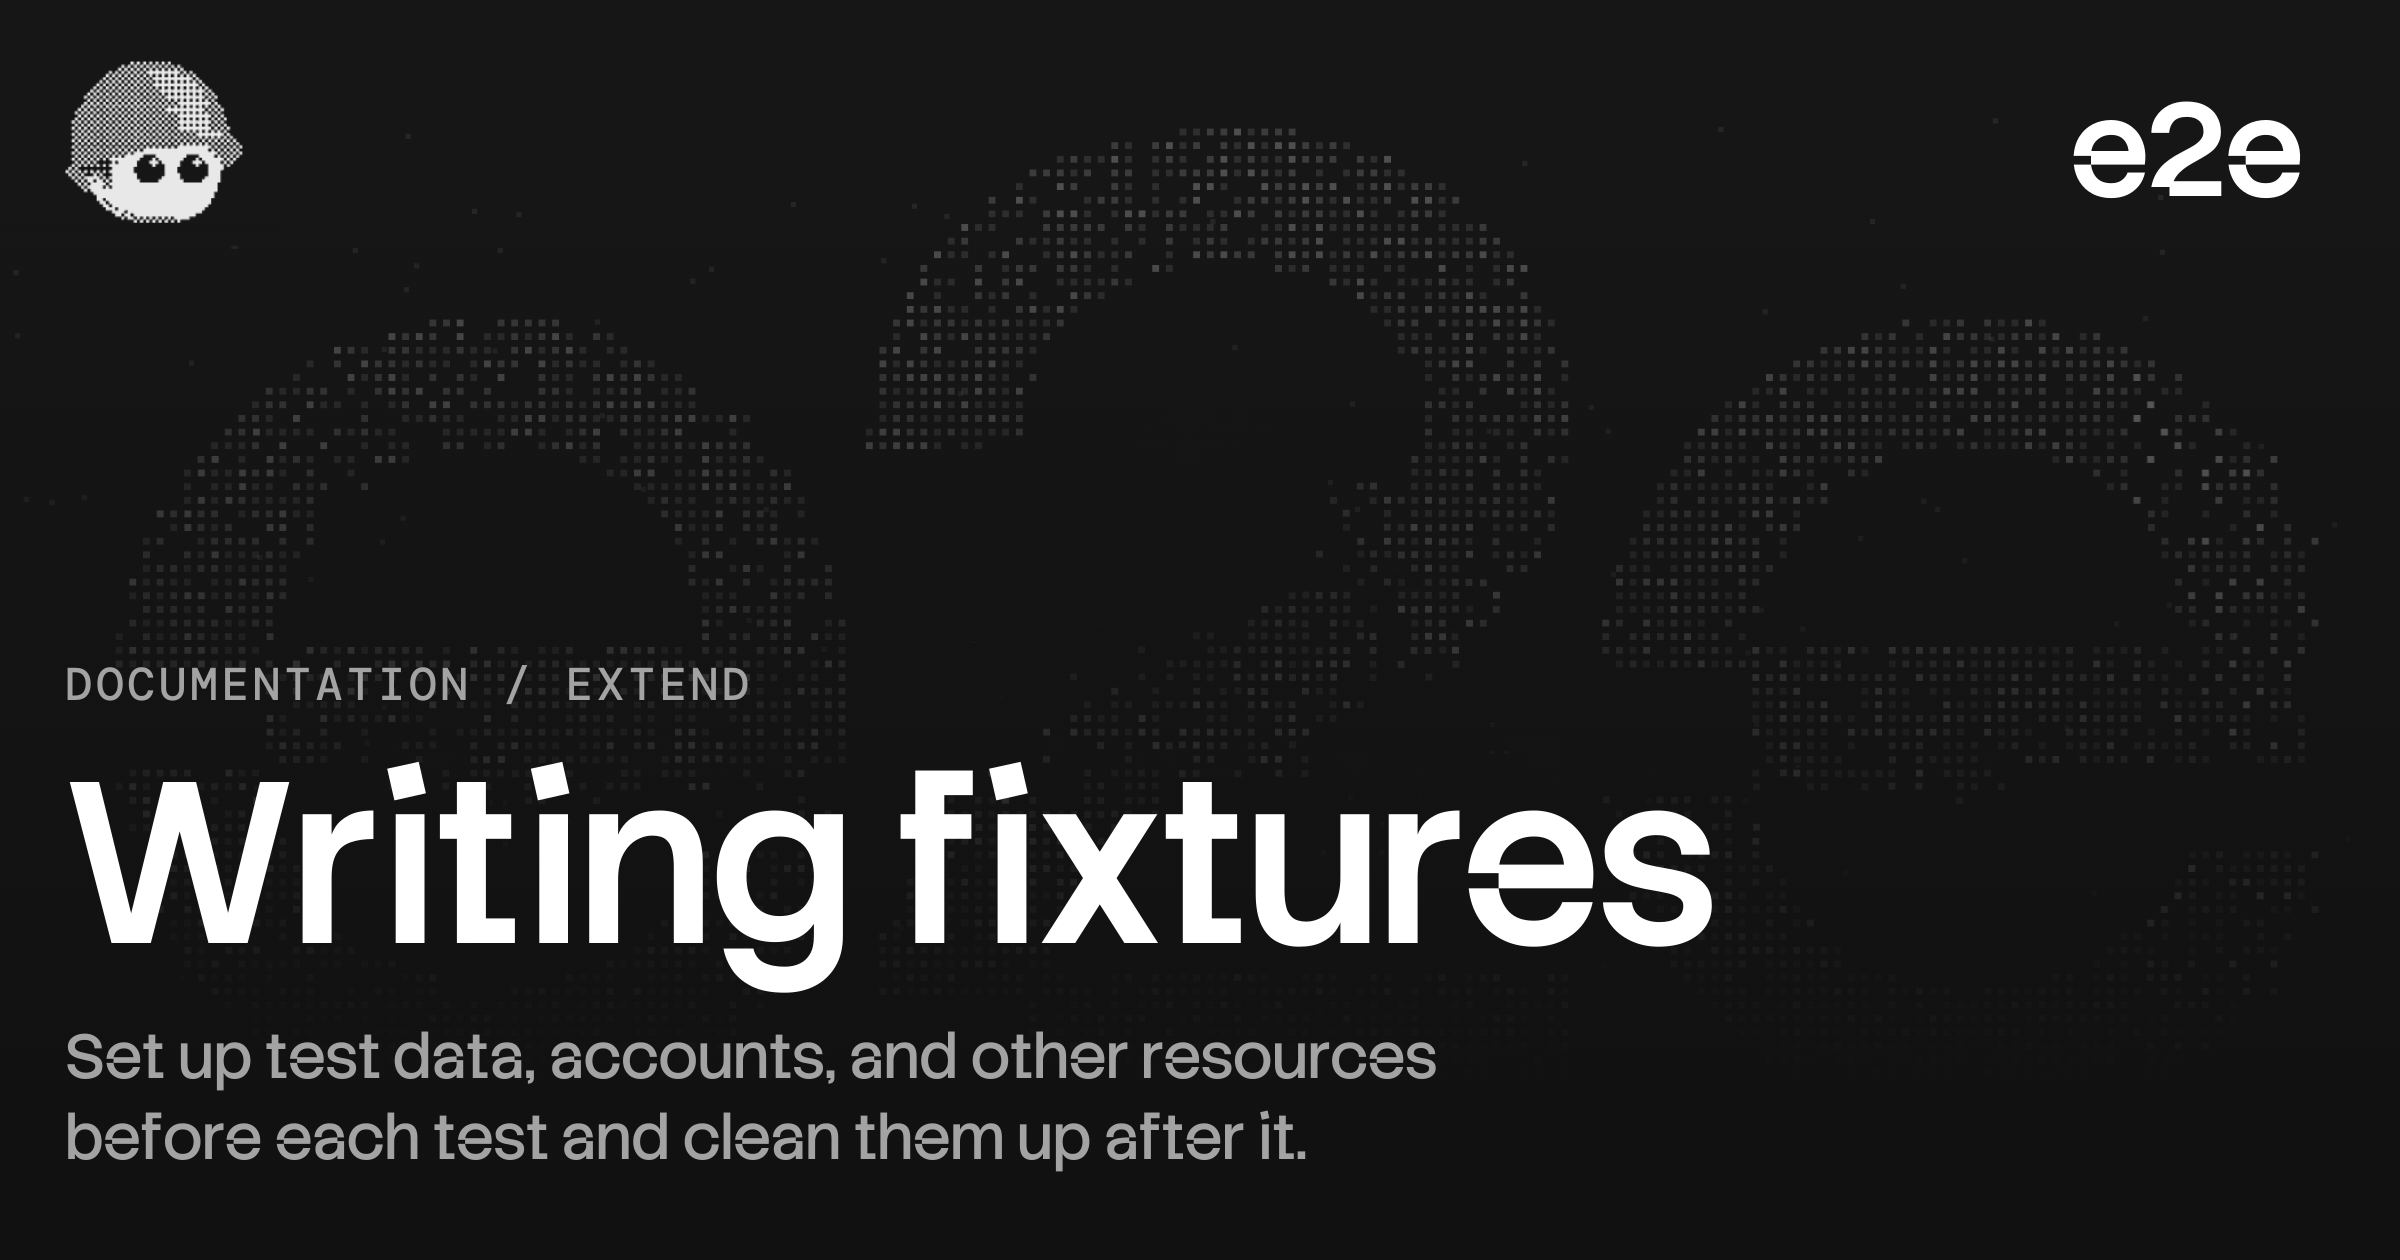
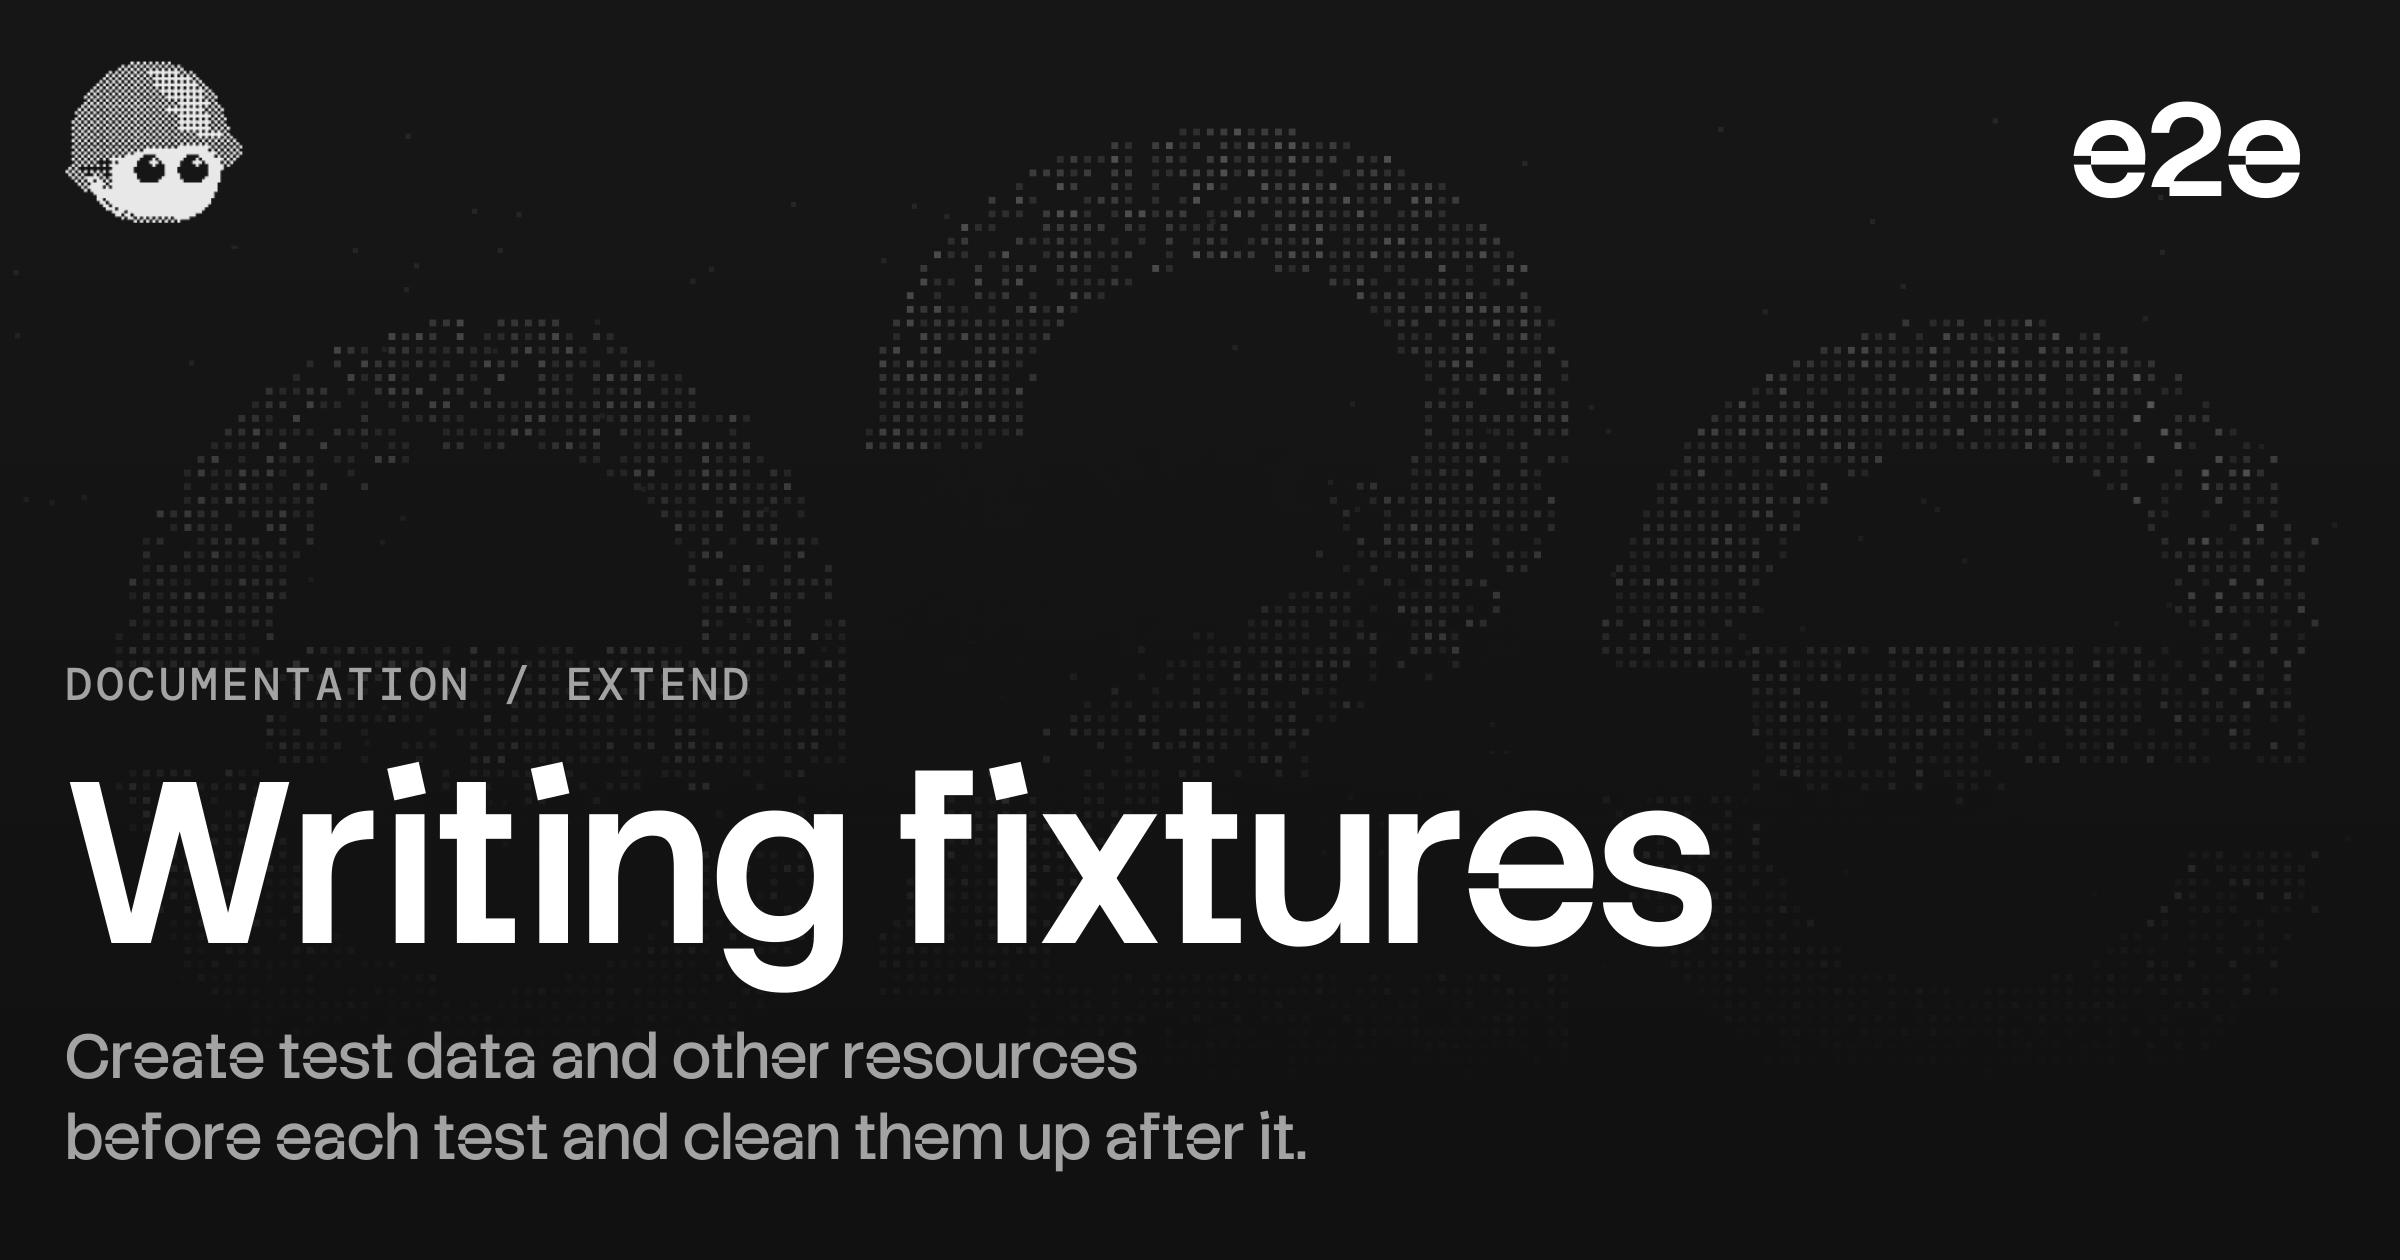
docs: show fixtures creating test data and leave sign-in to saved sessions

Changed region(s): [[0.0312, 0.8048, 0.5938, 0.8667]]

diff --git a/docs/examples/fixtures/tests/fixtures.ts b/docs/examples/fixtures/tests/fixtures.ts
@@ -3,38 +3,46 @@ import type { App } from 'e2e';
 
 export { expect } from 'e2e';
 
-interface Account {
-  readonly email: string;
-  readonly sessionToken: string;
+interface Project {
+  readonly id: string;
+  readonly name: string;
 }
 
-/** The URL the run serves the app at, including a port it picked. */
-function appUrl(app: App): string {
-  if (app.baseUrl === undefined) throw new Error('set app.url on the target');
-  return app.baseUrl;
+interface Task {
+  readonly id: string;
+  readonly title: string;
 }
 
 /** Calls the app's test API and fails on any status but 2xx. */
-async function testApi(app: App, path: string, method: 'POST' | 'DELETE'): Promise<Response> {
-  const response = await fetch(new URL(path, appUrl(app)), { method });
+async function testApi(app: App, method: 'POST' | 'DELETE', path: string, body?: object): Promise<Response> {
+  if (app.baseUrl === undefined) throw new Error('set app.url on the target');
+  const response = await fetch(new URL(path, app.baseUrl), {
+    method,
+    headers: { 'content-type': 'application/json' },
+    ...(body === undefined ? {} : { body: JSON.stringify(body) }),
+  });
   if (!response.ok) throw new Error(`${method} ${path} failed: HTTP ${response.status}`);
   return response;
 }
 
-/** A fresh account for each test, deleted after it. */
-export const test = base.extend<{ account: Account }>({
-  account: async ({ app }, use) => {
-    const response = await testApi(app, '/api/test/accounts', 'POST');
-    const account = (await response.json()) as Account;
-    await use(account);
-    await testApi(app, `/api/test/accounts/${encodeURIComponent(account.email)}`, 'DELETE');
+/** A fresh project for each test, deleted after it. */
+export const test = base.extend<{ project: Project }>({
+  project: async ({ app }, use) => {
+    const response = await testApi(app, 'POST', '/api/test/projects', { name: 'Launch plan' });
+    const project = (await response.json()) as Project;
+    await use(project);
+    await testApi(app, 'DELETE', `/api/test/projects/${project.id}`);
   },
 });
 
-/** The same account, already signed in to the browser. */
-export const signedInTest = test.extend<{ signedIn: Account }>({
-  signedIn: async ({ account, app, browser }, use) => {
-    await browser.setCookies([{ url: appUrl(app), name: 'session', value: account.sessionToken }]);
-    await use(account);
+/** One task in that project. */
+export const taskTest = test.extend<{ task: Task }>({
+  task: async ({ app, project }, use) => {
+    const response = await testApi(app, 'POST', `/api/test/projects/${project.id}/tasks`, {
+      title: 'Write the announcement',
+    });
+    const task = (await response.json()) as Task;
+    await use(task);
+    await testApi(app, 'DELETE', `/api/test/tasks/${task.id}`);
   },
 });

diff --git a/scripts/check-docs-examples.ts b/scripts/check-docs-examples.ts
@@ -44,7 +44,7 @@ const EXAMPLES: Record<string, string> = {
   'docs/examples/web/browser-provider.ts': 'docs/browser.mdx',
   'docs/examples/web/testmu-browsers.config.ts': 'docs/integrations/testmu.mdx',
   'docs/examples/fixtures/tests/fixtures.ts': 'docs/fixtures.mdx',
-  'docs/examples/fixtures/tests/settings.e2e.ts': 'docs/fixtures.mdx',
+  'docs/examples/fixtures/tests/tasks.e2e.ts': 'docs/fixtures.mdx',
   'docs/examples/models/e2e.decision.config.ts': 'docs/decision-models.mdx',
   'docs/examples/models/tests/decision.e2e.ts': 'docs/decision-models.mdx',
   'docs/examples/skill/e2e.config.ts': 'skills/e2e/SKILL.md',

diff --git a/docs/examples/fixtures/tests/tasks.e2e.ts b/docs/examples/fixtures/tests/tasks.e2e.ts
@@ -1,0 +1,7 @@
+import { expect, taskTest as test } from './fixtures.ts';
+
+test('completes a task', { session: 'admin' }, async ({ app, screen, project, task }) => {
+  await app.open(`/projects/${project.id}`);
+  await screen.getByRole('checkbox', task.title).check();
+  await expect(screen.getByRole('checkbox', task.title)).toBeChecked();
+});
